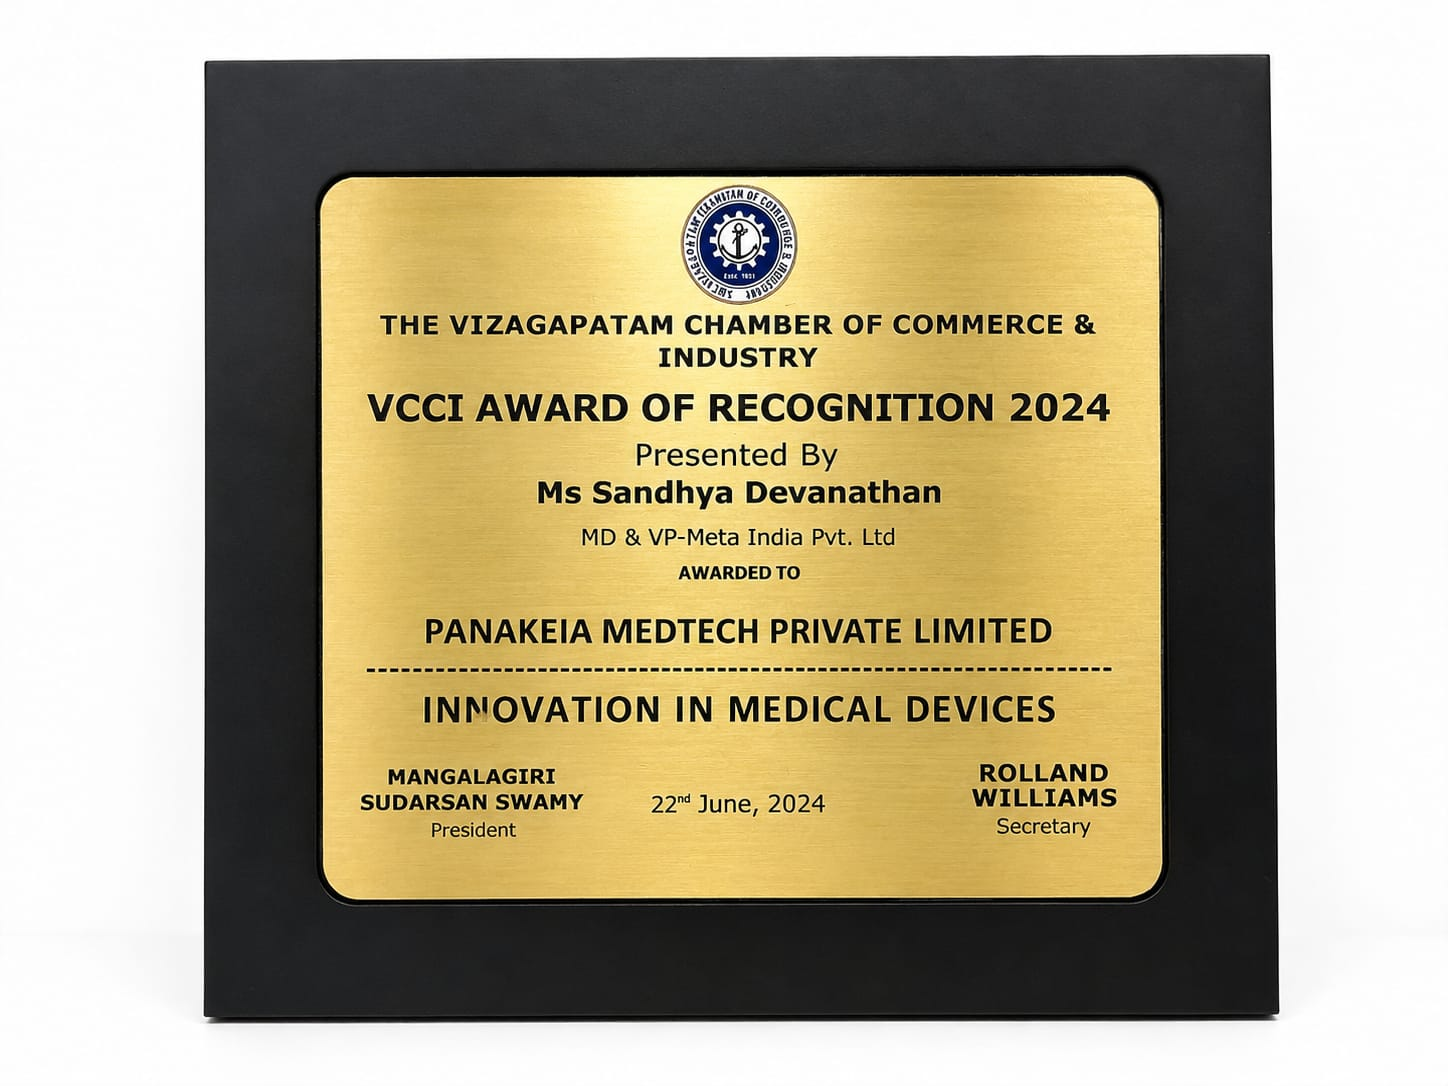
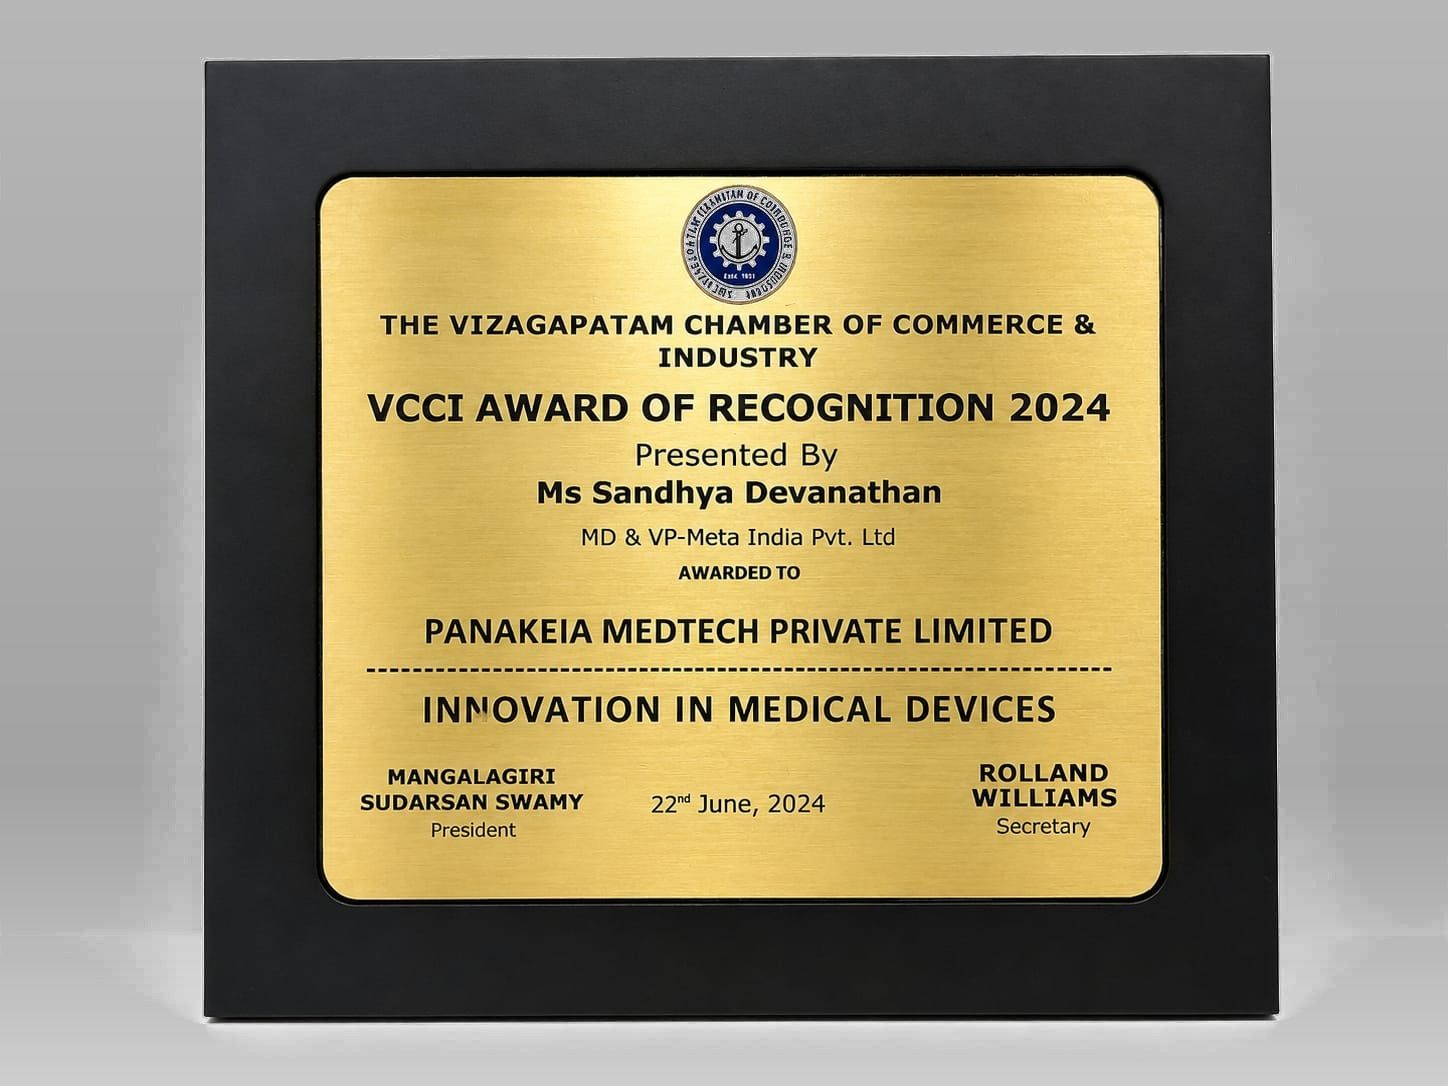
feat: convert award image backgrounds from white to matching studio grey

diff --git a/src/components/ui/AwardsSection.tsx b/src/components/ui/AwardsSection.tsx
@@ -282,7 +282,7 @@ export function AwardsSection() {
                   <img
                     src={selectedAward.image}
                     alt={selectedAward.title}
-                    className="max-h-[340px] max-w-full w-auto h-auto object-contain filter drop-shadow-sm rounded-lg bg-white"
+                    className="max-h-[340px] max-w-full w-auto h-auto object-contain filter drop-shadow-sm rounded-lg"
                   />
                 </div>
               </div>
